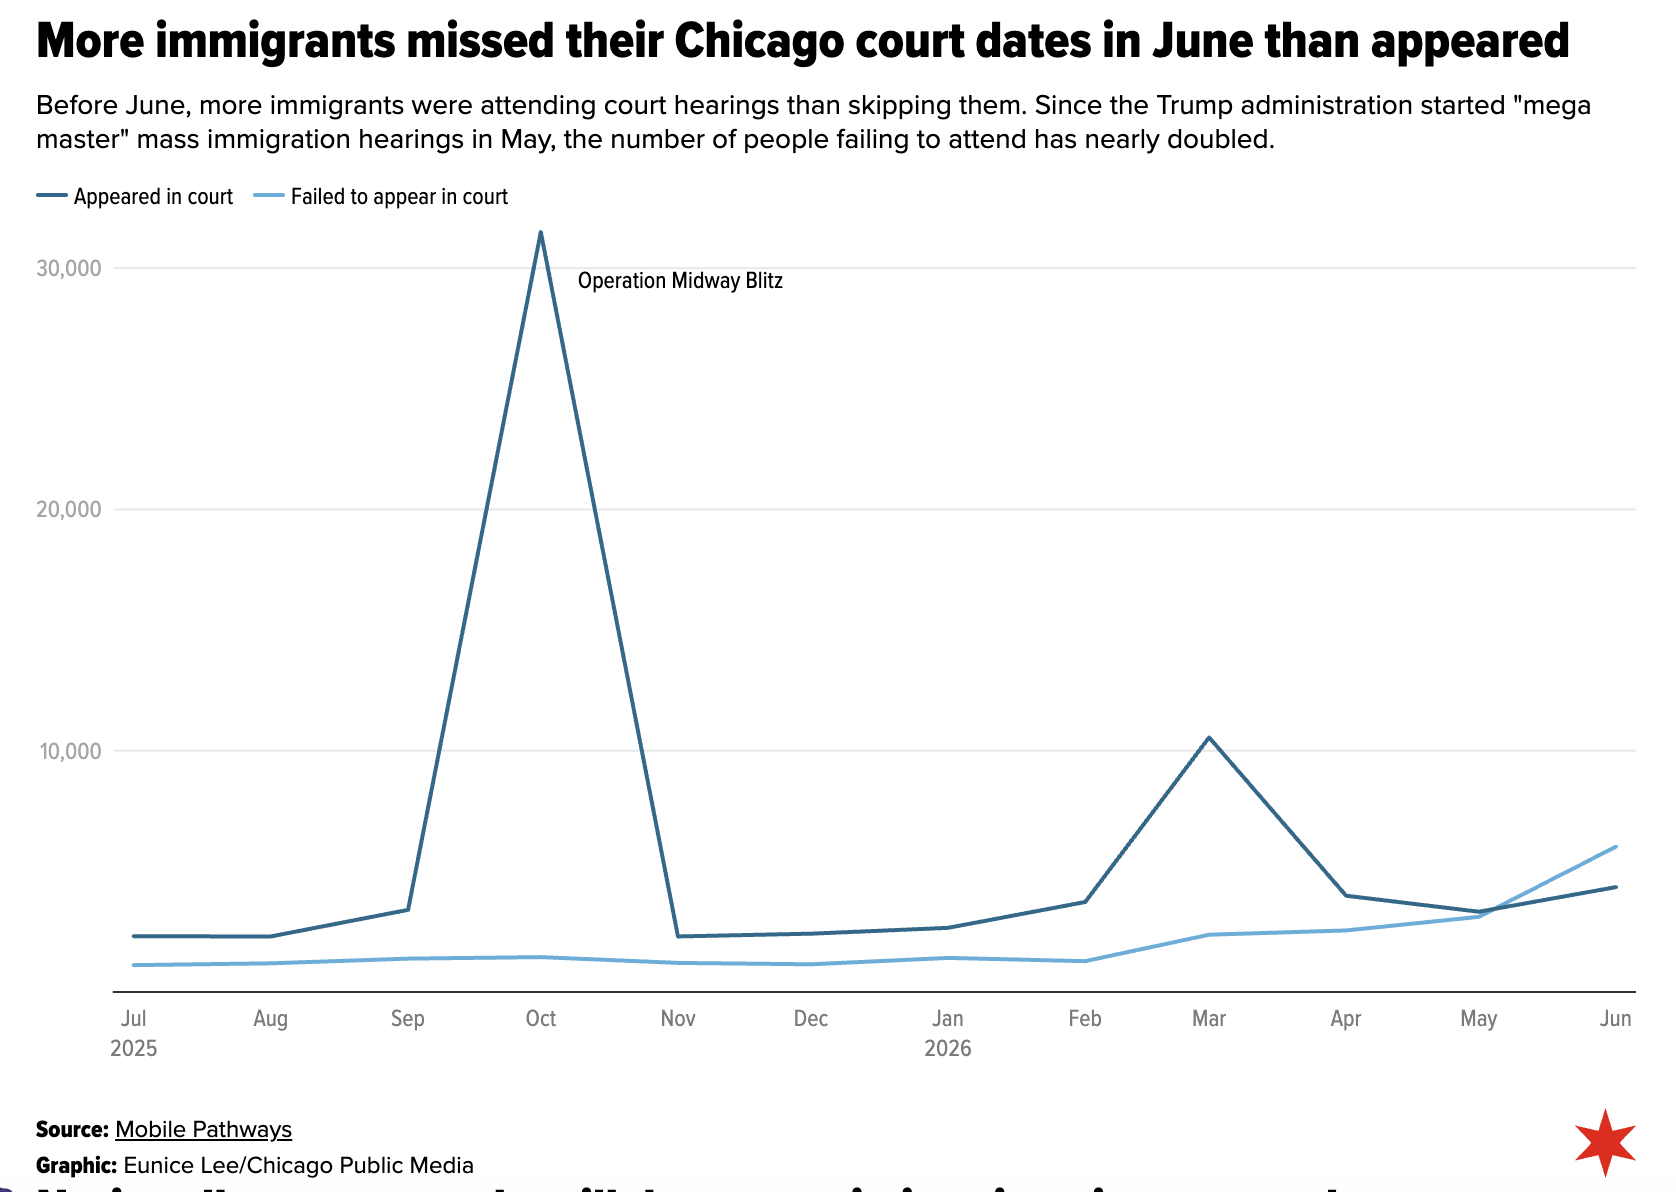
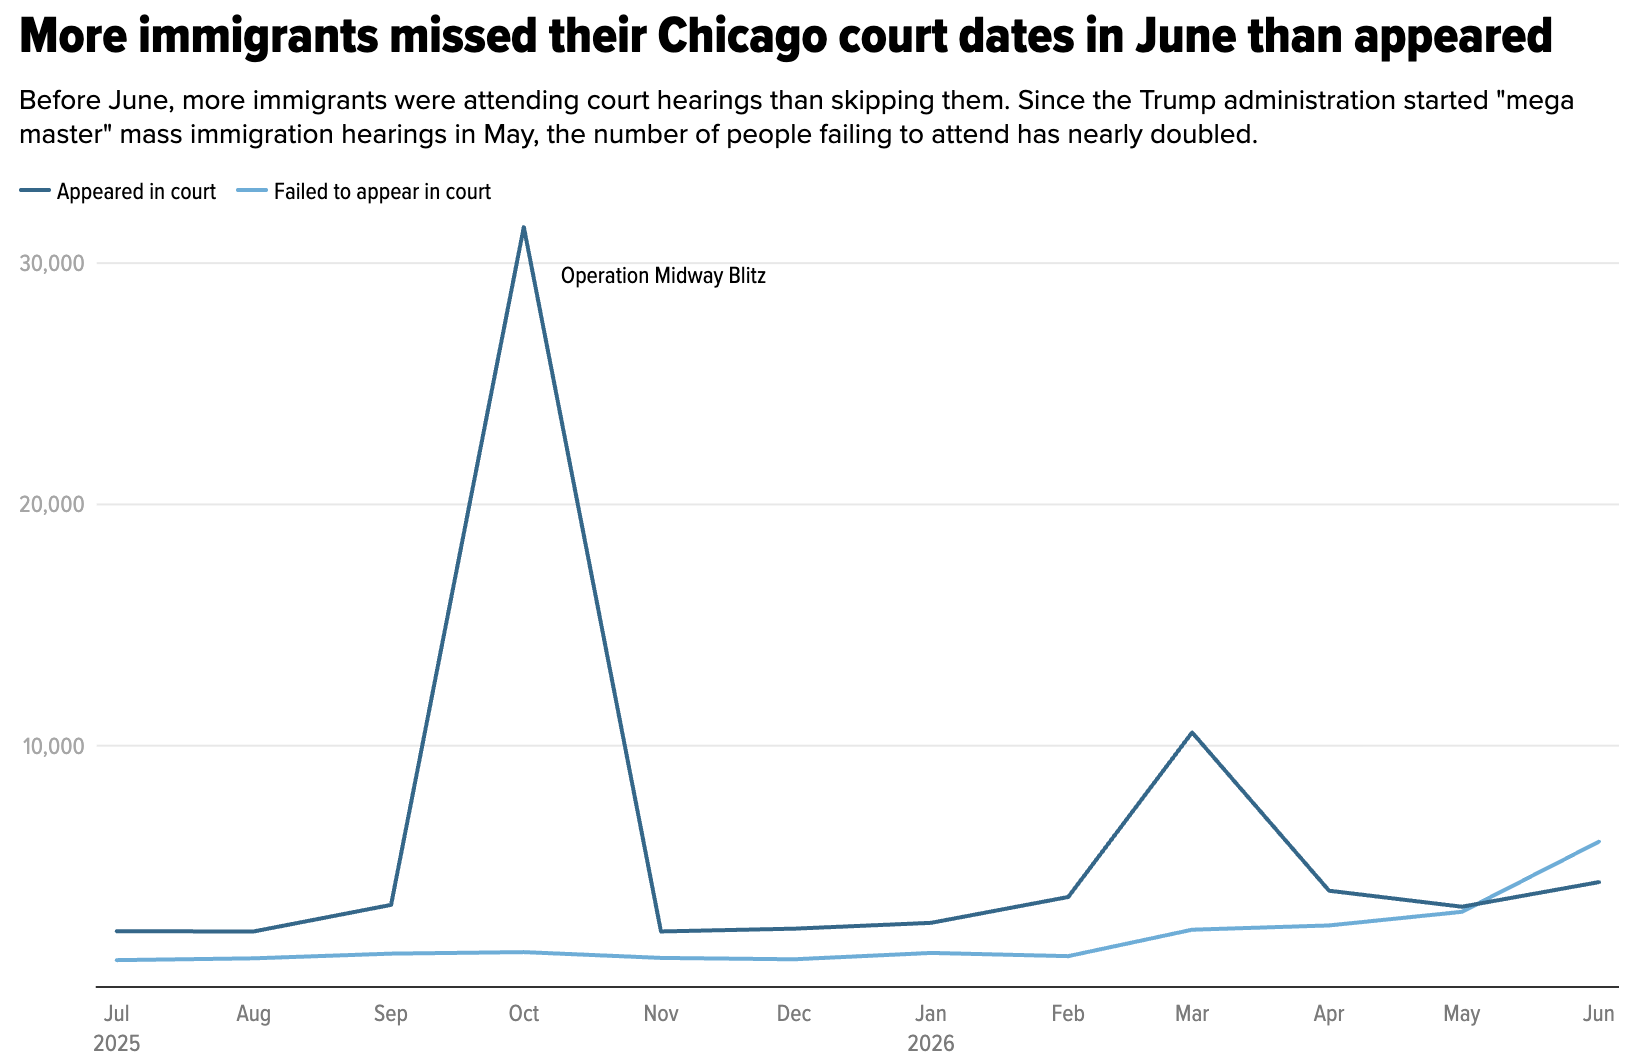
added most of the projects

diff --git a/src/data/projects.js b/src/data/projects.js
@@ -7,6 +7,8 @@ import lnl2 from "../assets/lnl/lnl2.png";
 import lnl3 from "../assets/lnl/lnl3.png";
 import lnl4 from "../assets/lnl/lnl4.png";
 import rainTracker from "../assets/rainstory.png";
+import bidWar from "../assets/bidwar.png";
+import CCH from "../assets/CCH.png";
 import midwayBlitz from "../assets/midwayblitz.png";
 import holidayLights from "../assets/daily/holiday-lights.jpg";
 import groveGallery from "../assets/daily/grove-gallery.jpeg";
@@ -101,7 +103,7 @@ export const archiveProjects = [
     title:
       "Chicago police traffic stops plunge, again, but Black and Latino drivers still get pulled over far more",
     description:
-      "Wrote and analyzed a data-driven story on Chicago traffic stops, examining persistent racial disparities in who gets pulled over and how pretextual stops affect Black and Latino drivers.",
+      "Wrote a data-driven story on Chicago traffic stops by analyzing IDOT data and conducting original reporting, examining persistent racial disparities in who gets pulled over and how pretextual stops affect Black and Latino drivers.",
     categories: ["data", "writing"],
     tools: ["Chicago Public Media", "Excel"],
     image: stops,
@@ -129,37 +131,39 @@ export const archiveProjects = [
     link: "https://chicago.suntimes.com/immigration/2026/07/24/chaotic-crowded-chicago-immigration-mega-court-hearings-are-fueling-record-deportation-orders",
   },
   {
-    id: "archive-04",
-    title: "Archive Project Four",
-    description: "A short placeholder description for a photo-based project.",
-    categories: ["photo"],
-    tools: ["Photo", "Direction"],
-    image: null,
-    link: "#",
-  },
-  {
     id: "archive-05",
-    title: "Archive Project Five",
+    title:
+      "Cook County Health predicts charity care will soar to highest level in over a decade",
     description: "One sentence reserved for a data story or interactive piece.",
     categories: ["data", "graphics"],
     tools: ["Data", "Interactive"],
-    image: null,
-    link: "#",
+    image: CCH,
+    link: "https://www.wbez.org/health-medicine/2026/07/31/cook-county-predicts-charity-care-will-soar-to-highest-level-in-more-than-a-decade-medicaid-obamacare",
   },
   {
-    id: "archive-06",
-    title: "Archive Project Six",
-    description: "A final placeholder for work that crosses multiple formats.",
-    categories: ["writing", "photo"],
-    tools: ["Print", "Photo"],
-    image: null,
-    link: "#",
+    id: "archive-04",
+    title:
+      "Got cash? With few properties on sale, Chicago homebuyers are having bidding wars",
+    description: "Created graphics using Datawrapper.",
+    categories: ["graphics", "data"],
+    tools: ["Chicago Public Media", "Datawrapper"],
+    image: bidWar,
+    link: "https://chicago.suntimes.com/real-estate/2026/08/01/cash-properties-sale-open-house-chicago-homebuyers-bidding-wars",
   },
+  // {
+  //   id: "archive-06",
+  //   title: "Archive Project Six",
+  //   description: "A final placeholder for work that crosses multiple formats.",
+  //   categories: ["writing", "photo"],
+  //   tools: ["Print", "Photo"],
+  //   image: null,
+  //   link: "#",
+  // },
   {
     id: "archive-07",
     title:
       "Make your spirits bright with these holiday light events in the Chicago area",
-    description: "ADD DESCRIPTION",
+    description: null,
     categories: ["writing", "graphics"],
     tools: ["The Daily Northwestern", "Reporting", "StoryMapJS"],
     image: holidayLights,
@@ -169,7 +173,7 @@ export const archiveProjects = [
     id: "archive-08",
     title:
       "Grove Gallery wraps up 'Portraits with Impact,' hoping to focus on community, diversity",
-    description: "ADD DESCRIPTION",
+    description: null,
     categories: ["writing"],
     tools: ["The Daily Northwestern", "Reporting"],
     image: groveGallery,
@@ -178,7 +182,7 @@ export const archiveProjects = [
   {
     id: "archive-09",
     title: "Poll: Love on campus, in numbers",
-    description: "ADD DESCRIPTION",
+    description: null,
     categories: ["data", "writing"],
     tools: ["The Daily Northwestern", "Reporting", "Python"],
     image: loveOnCampus,
@@ -187,7 +191,7 @@ export const archiveProjects = [
   {
     id: "archive-10",
     title: "Fusion celebrates 21st birthday with its annual spring show",
-    description: "ADD DESCRIPTION",
+    description: null,
     categories: ["writing"],
     tools: ["The Daily Northwestern", "Reporting"],
     image: fusionDance,
@@ -197,7 +201,7 @@ export const archiveProjects = [
     id: "archive-11",
     title:
       "Student composed music drama 'Pythia' explores the history of the Oracle of Delphi",
-    description: "ADD DESCRIPTION",
+    description: null,
     categories: ["writing"],
     tools: ["The Daily Northwestern", "Reporting"],
     image: pythia,
@@ -207,7 +211,8 @@ export const archiveProjects = [
     id: "archive-12",
     title:
       "The Weekly: Federal data deletions, Workers' Retention Ordinance, R. F. Kuang",
-    description: "ADD DESCRIPTION",
+    description:
+      "Spoke on The Weekly, The Daily Northwestern's news podcast, about my reporting on how federal data deletions were affecting Northwestern researchers.",
     categories: ["writing"],
     tools: ["The Daily Northwestern", "Reporting"],
     image: theWeekly,
@@ -227,7 +232,7 @@ export const archiveProjects = [
     id: "archive-14",
     title:
       "Best All-Around and Brunch: Ovo Frito Café delivers tasty brunch favorites",
-    description: "ADD DESCRIPTION",
+    description: null,
     categories: ["writing"],
     tools: ["The Daily Northwestern", "Reporting"],
     image: ovoFrito,
@@ -237,7 +242,7 @@ export const archiveProjects = [
     id: "archive-15",
     title:
       "Best of Evanston: NU faculty share their favorite restaurants in downtown Evanston",
-    description: "ADD DESCRIPTION",
+    description: null,
     categories: ["writing"],
     tools: ["The Daily Northwestern", "Reporting"],
     image: facultyRestaurants,
@@ -247,7 +252,7 @@ export const archiveProjects = [
     id: "archive-16",
     title:
       "Sparks fly: NU students make matches for one another to celebrate Valentine's Day",
-    description: "ADD DESCRIPTION",
+    description: null,
     categories: ["writing"],
     tools: ["The Daily Northwestern", "Reporting"],
     image: valentinesMatchmaking,
@@ -257,7 +262,7 @@ export const archiveProjects = [
     id: "archive-17",
     title:
       "Prof. Michelle Birkett presents findings on social causes of HIV prevalence at colloquium",
-    description: "ADD DESCRIPTION",
+    description: null,
     categories: ["writing"],
     tools: ["The Daily Northwestern", "Reporting"],
     image: michelleBirkett,
@@ -267,7 +272,7 @@ export const archiveProjects = [
     id: "archive-18",
     title:
       "Bienen senior Emily Amesquita wins encouragement award at Laffont Competition, eyes opera career",
-    description: "ADD DESCRIPTION",
+    description: null,
     categories: ["writing"],
     tools: ["The Daily Northwestern", "Reporting"],
     image: emilyAmesquita,
@@ -277,7 +282,8 @@ export const archiveProjects = [
     id: "archive-19",
     title:
       "Graffoniks marks 10th anniversary with 'Graffoniks is Out of This World'",
-    description: "ADD DESCRIPTION",
+    description:
+      "Wrote and photographed a story on Graffoniks' 10th anniversary showcase.",
     categories: ["writing", "photo"],
     tools: ["The Daily Northwestern", "Reporting"],
     image: graffoniks,

diff --git a/src/App.css b/src/App.css
@@ -52,11 +52,11 @@
 .archive-heading-copy { display: flex; min-width: 0; flex-direction: column; align-items: flex-start; }
 .archive-subtitle { margin: 8px 0 0; font: 400 1.2rem/1.2 var(--serif); }
 .filter-bar { display: flex; flex-wrap: wrap; justify-content: flex-end; gap: 5px 14px; }
-.filter-bar button { padding: 2px 0; border: 0; border-bottom: 1px solid transparent; background: transparent; font-size: .63rem; letter-spacing: .06em; text-transform: uppercase; cursor: pointer; }
+.filter-bar button { padding: 2px 0; border: 0; border-bottom: 1px solid transparent; background: transparent; font-size: .75rem; letter-spacing: .06em; text-transform: uppercase; cursor: pointer; }
 .filter-bar button:hover, .filter-bar button.is-active { border-bottom-color: var(--charcoal); }
-.archive-list { border-top: 1px solid rgba(40, 37, 37, .55); }
+.archive-list { border-top: 1px solid rgba(40, 37, 37, .55);  max-width: 990px; margin-inline: auto;}
 .archive-row { display: grid; grid-template-columns: 160px minmax(0, 1fr); gap: clamp(20px, 3vw, 38px); padding: 18px 0; border-bottom: 1px solid rgba(40, 37, 37, .35); }
-.archive-thumb { width: 160px; aspect-ratio: 4 / 3; display: grid; place-items: center; border: 1px solid rgba(40, 37, 37, .25); color: rgba(40, 37, 37, .6); }
+.archive-thumb { width: 180px; aspect-ratio: 4 / 2; display: grid; place-items: center; border: 1px solid rgba(40, 37, 37, .25); color: rgba(40, 37, 37, .6); }
 .archive-thumb span { font: 1rem var(--serif); }
 .archive-thumb--image { border: 0; }
 .archive-thumb img { display: block; width: 100%; height: 100%; object-fit: cover; }
